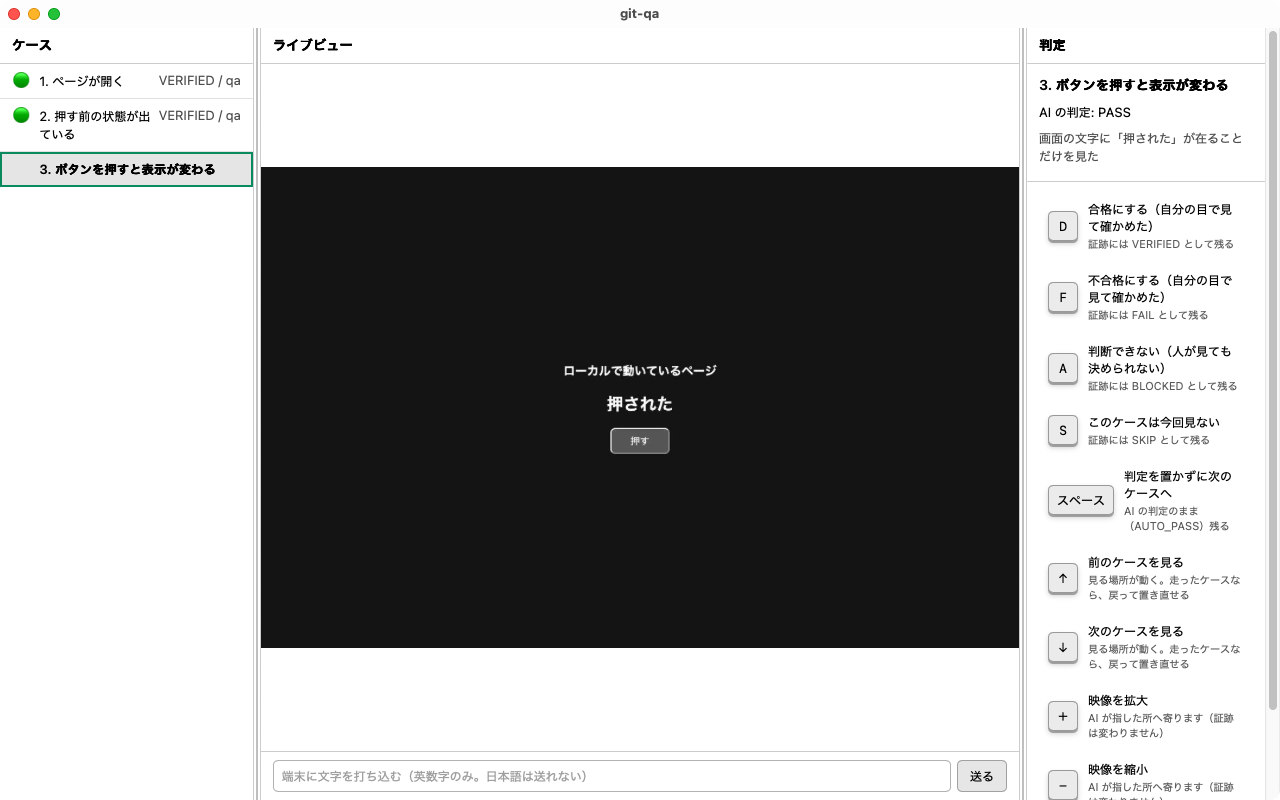
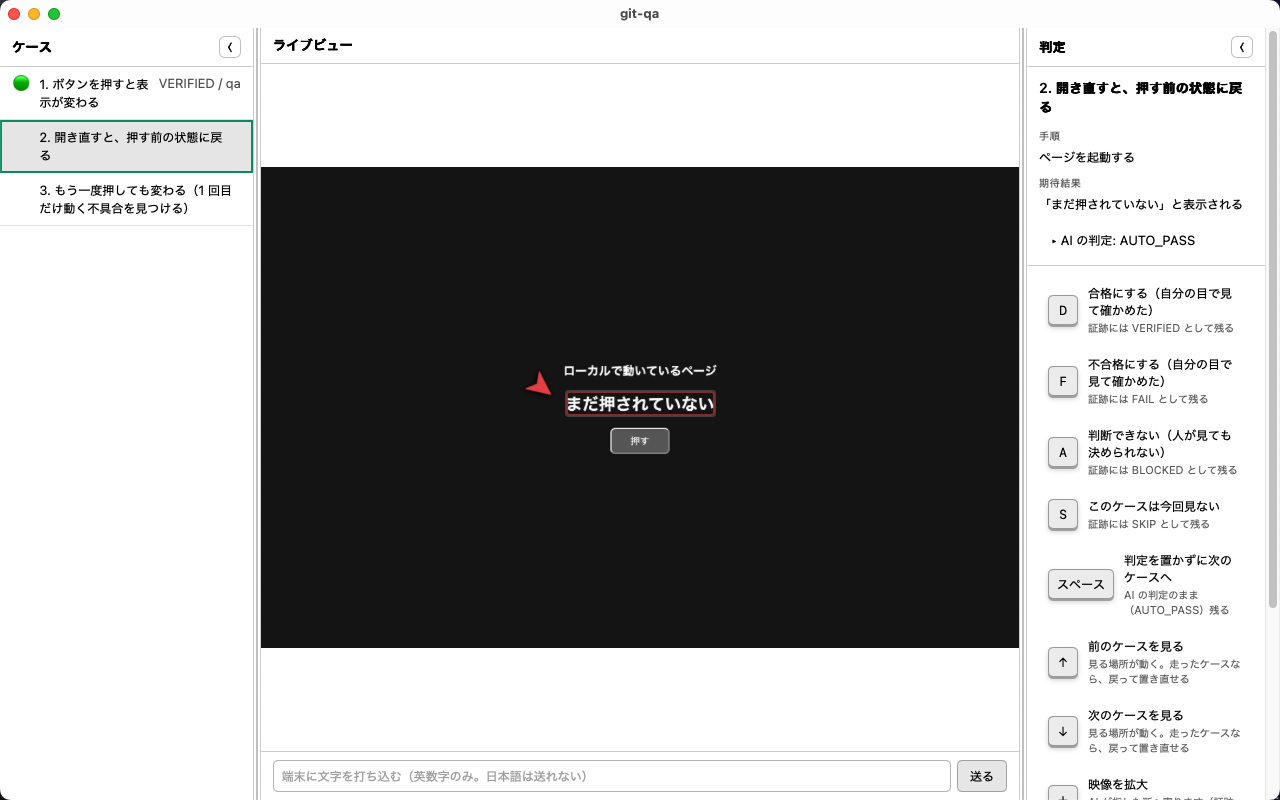
docs: 名乗りを「human-in-the-loop QA runner／人が判定する QA ランナー」にそろえ、検査で持つ（C100）
- README の冒頭（英日）に、製品の種類と、何ができるかの一文を足した
- 配布ページの title / description / og を同じ言い方にし、JSON-LD（SoftwareApplication）を足した
- site/llms.txt を足した（AI 向けの短い説明）
- root の package.json の説明を英語で同じ言い方に。adapter-ios の説明の「押す口はまだ無い」を直した
- 配布ページの「いま何ができるか」に iPhone / iPad の行を足し、画面の絵を今の画面（AUTO_PASS と出る版）に替えた
- 決めた語が入っていることを packages/host/test/discoverability.test.ts で見る

Claude-Session: https://claude.ai/code/session_01Pv9mWR8krPiQ2VFaV8azSp

diff --git a/site/index.html b/site/index.html
@@ -3,16 +3,16 @@
   <head>
     <meta charset="utf-8" />
     <meta name="viewport" content="width=device-width, initial-scale=1" />
-    <title>git-qa — AI が操作し、人が判定を置く</title>
+    <title>git-qa — 人が判定する QA ランナー（human-in-the-loop QA）</title>
     <meta
       name="description"
-      content="検証シートに沿って AI が端末・ブラウザ・デスクトップアプリを操作し、人は見て 1 打鍵で判定を置く。誰が見て保証したかが証跡に残ります（ベータ版）。"
+      content="人が判定する QA ランナー（human-in-the-loop QA）。検証シートに沿って AI エージェントが Android・iPhone・ウェブ・デスクトップアプリを操作し、人は見て 1 打鍵で判定を置く。誰が見て保証したかが証跡に残ります。MCP 対応・オープンソース（ベータ版）。"
     />
     <link rel="icon" href="./icon.png" />
-    <meta property="og:title" content="git-qa" />
+    <meta property="og:title" content="git-qa — 人が判定する QA ランナー" />
     <meta
       property="og:description"
-      content="AI が操作し、人が判定を置く。誰が見て保証したかが証跡に残る。"
+      content="AI が検証シートを流し、人が見て 1 打鍵で判定を置く。誰が見て保証したかが証跡に残る（human-in-the-loop QA）。"
     />
     <!--
       SNS のカード。**画像と URL は絶対 URL で書く**（2026-09-25）。
@@ -26,6 +26,30 @@
     <meta property="og:image:height" content="630" />
     <meta name="twitter:card" content="summary_large_image" />
     <meta name="twitter:image" content="https://meta-taro.github.io/git-qa/og.png" />
+    <!--
+      検索エンジン向けの名乗り（2026-10-13）。README・llms.txt と同じ語で言う。
+      語は packages/host/test/discoverability.test.ts が持っている。
+    -->
+    <script type="application/ld+json">
+      {
+        "@context": "https://schema.org",
+        "@type": "SoftwareApplication",
+        "name": "git-qa",
+        "url": "https://meta-taro.github.io/git-qa/",
+        "description": "Open-source human-in-the-loop QA runner. An AI agent works through a test sheet on Android, iPhone, web and desktop apps; a person watches the live screen and signs off each case with one key, and the evidence records who verified what. AI agents can drive it over MCP.",
+        "applicationCategory": "DeveloperApplication",
+        "operatingSystem": "macOS, Windows",
+        "license": "https://opensource.org/licenses/MIT",
+        "codeRepository": "https://github.com/meta-taro/git-qa",
+        "offers": {
+          "@type": "Offer",
+          "price": "0",
+          "priceCurrency": "USD"
+        },
+        "inLanguage": ["ja", "en"],
+        "keywords": "human-in-the-loop QA, manual testing, AI testing, test sheet, test evidence, MCP, Claude Code, Android, iPhone, web, desktop, 検証シート, 動作検証"
+      }
+    </script>
     <style>
       /*
        * 色は DESIGN.md から採る（2026-09-03・持ち主が決めた緑）。
@@ -323,6 +347,7 @@
         </div>
         <p class="lead">
           <b>AI が操作し、人が見て、1 打鍵で判定を置く。</b>
+          人が判定する QA ランナー（human-in-the-loop QA）です。
           検証シート（TSV）に沿って端末・ブラウザ・デスクトップアプリを動かします。
         </p>
         <p class="split">
@@ -343,8 +368,8 @@
           alt="git-qa の画面。左にケース一覧、中央に相手の画面の映像、右に AI の判定と判定キーが並んでいる"
         />
         <figcaption>
-          <b>実物の画面です。</b>左が検証シートのケース、中央が相手の画面（いま AI
-          が押した直後）、右が AI の判定と、人が押すキー。
+          <b>実物の画面です。</b>左が検証シートのケース、中央が相手の画面（赤い印は、AI
+          が期待結果の文字を見つけた所）、右が AI の判定と、人が押すキー。
           <b>済んだケースには「VERIFIED / 誰が見たか」が付きます。</b>
         </figcaption>
       </figure>
@@ -555,6 +580,13 @@
             <td>
               <b>macOS と Windows。</b>macOS は前面に出さずに押せ、文字は AX と OCR の 2
               段で読みます。 Windows は UI Automation で読んで押します（録画は無い）
+            </td>
+          </tr>
+          <tr>
+            <th>iPhone / iPad</th>
+            <td>
+              USB で映す・文字を読む・録る。<b>押す・打つ・アプリの起動</b>は、端末に WebDriverAgent
+              を入れたときだけ（署名と導入は人の作業）。Windows からは未確認
             </td>
           </tr>
           <tr>

diff --git a/packages/host/test/discoverability.test.ts b/packages/host/test/discoverability.test.ts
@@ -1,0 +1,79 @@
+import { readFileSync } from 'node:fs';
+import { dirname, join } from 'node:path';
+import { fileURLToPath } from 'node:url';
+
+import { describe, expect, it } from 'vitest';
+
+/**
+ * **名乗りを、どこでも同じ語で言う**（2026-10-13）。
+ *
+ * 製品名を知らない人が AI や検索に聞いたとき、git-qa が何と説明されるかは、
+ * こちらが書いた文で決まる。置き場所ごとに言い方がばらばらだと、どれも採られない。
+ *
+ * **直した語が、次の誰かの編集で消えないように検査で持つ。**
+ * 語を変えるときは、ここと全部の置き場所を同じ commit で直す。
+ */
+
+const root = join(dirname(fileURLToPath(import.meta.url)), '..', '..', '..');
+const read = (path: string): string => readFileSync(join(root, path), 'utf8');
+
+/** 英語の名乗りに必ず入れる語。**盛らない** —— できることだけ。 */
+const EN_TERMS = ['human-in-the-loop QA', 'test sheet', 'MCP', 'Android', 'iPhone', 'desktop'];
+
+/** 日本語の名乗りに必ず入れる語。日本語の頁にも、検索される英語の語を入れる。 */
+const JA_TERMS = ['検証シート', '人が判定', 'human-in-the-loop QA', 'MCP'];
+
+describe('名乗り — 英語', () => {
+  it.each([
+    ['README.md の冒頭', () => read('README.md').slice(0, 2500)],
+    [
+      'site/llms.txt の最初の段落',
+      () => read('site/llms.txt').split('\n\n').slice(0, 2).join('\n'),
+    ],
+    [
+      '配布ページの JSON-LD',
+      () =>
+        /<script type="application\/ld\+json">([\s\S]*?)<\/script>/.exec(
+          read('site/index.html'),
+        )?.[1] ?? '',
+    ],
+  ])('%s に、決めた語が入っている', (_where, text) => {
+    const said = text();
+    for (const term of EN_TERMS) expect(said, term).toContain(term);
+  });
+
+  it('root の package.json の説明は英語で、決めた語を含む', () => {
+    const description = (JSON.parse(read('package.json')) as { description: string }).description;
+    expect(description).toContain('human-in-the-loop QA');
+  });
+});
+
+describe('名乗り — 日本語', () => {
+  it.each([
+    ['README.ja.md の冒頭', () => read('README.ja.md').slice(0, 2500)],
+    [
+      '配布ページの title と description',
+      () => {
+        const html = read('site/index.html');
+        const title = /<title>([^<]*)<\/title>/.exec(html)?.[1] ?? '';
+        const description = /name="description"\s+content="([^"]*)"/.exec(html)?.[1] ?? '';
+        return `${title}\n${description}`;
+      },
+    ],
+  ])('%s に、決めた語が入っている', (_where, text) => {
+    const said = text();
+    for (const term of JA_TERMS) expect(said, term).toContain(term);
+  });
+});
+
+describe('名乗り — 配布ページの JSON-LD', () => {
+  it('JSON として読め、名前と置き場所を持つ', () => {
+    const raw = /<script type="application\/ld\+json">([\s\S]*?)<\/script>/.exec(
+      read('site/index.html'),
+    )?.[1];
+    expect(raw).toBeDefined();
+    const said = JSON.parse(raw ?? '{}') as Record<string, unknown>;
+    expect(said['name']).toBe('git-qa');
+    expect(said['url']).toBe('https://meta-taro.github.io/git-qa/');
+  });
+});

diff --git a/docs/decisions.md b/docs/decisions.md
@@ -3327,3 +3327,30 @@ macOS は使用目的が書かれていないと**許可を聞く画面すら出
   MJPEG は実機の 10 秒分（95 枚）を読み切れることを確かめた。**Windows から WDA を起こす手順と、窓での映像の表示は、まだ確かめていない**
 - あわせて直したもの：iPhone の映像を窓へ送るとき、1 枚ずつの区切り（長さの前置き）を付けていなかった（窓に映らなかった）
 - まだ無いもの：長押し
+
+### C100: 名乗りを 1 つの言い方にそろえ、検査で持つ（2026-10-13）
+
+**決めたこと**
+
+1. git-qa を一言で言うときは、英語は **human-in-the-loop QA runner**、日本語は **人が判定する QA ランナー**（括弧で human-in-the-loop QA を添える）
+2. 続く一文は「AI エージェントが検証シートに沿って Android・iPhone・ウェブ・デスクトップアプリを操作し、人がライブ映像を見て判定を置く。誰が何を確かめたかが証跡に残る。MCP で動かせる」
+3. 置き場所は README の冒頭（英日）・配布ページの title / description / og / JSON-LD・`site/llms.txt`・root の `package.json`。GitHub の About も同じ文にする（変えるのは管理者）
+4. 決めた語が入っていることを `packages/host/test/discoverability.test.ts` で見る
+
+**根拠**
+
+- 製品名を知らない人が AI や検索に聞いたとき、git-qa が何と説明されるかは、こちらが書いた文で決まる。置き場所ごとに言い方がばらばらだと、どれも採られない
+- 配布ページの title は「AI が操作し、人が判定を置く」で、製品の種類（QA ランナー）を言っていなかった。英語の頁は README だけで、配布ページに英語の語が無かった
+
+**採らなかった案とその理由**
+
+- **「AI testing tool」を前に出す** —— AI が合否を出す道具に見える。git-qa は AI に合格を出させない（C1）
+- **検査を置かず、気をつける** —— 直した語は、次の誰かの編集で消える（C78 と同じ）
+
+**これを止めるべき条件**
+
+- 言い方を変えたい理由が出たら、検査と全部の置き場所を同じ commit で直す。片方だけ変えない
+
+**実行状況**
+
+- 上の置き場所を直し、検査を足した。配布ページの「いま何ができるか」に iPhone / iPad の行が無かったので足した

diff --git a/README.ja.md b/README.ja.md
@@ -4,6 +4,10 @@
 
 **検証シートは AI が流します。人は見て、1 ケースずつ 1 打鍵で判定を置くだけ。**
 
+git-qa は、**人が判定する QA ランナー**（human-in-the-loop QA・オープンソース）です。
+AI エージェントが検証シートに沿って Android・iPhone・ウェブ・デスクトップアプリを操作し、
+人はライブ映像を見て判定を置きます。誰が何を確かめたかが証跡に残ります。AI エージェントからは MCP で動かせます。
+
 ![検証シートを流している git-qa。左にケース、中央にいま動いている画面と AI が見つけた所の印、右に 1 打鍵の判定](./docs/images/run.png)
 
 *左：検証シートのケース。中央：AI が操作しているページ・端末・アプリの、いまの画面。

diff --git a/README.md b/README.md
@@ -2,6 +2,10 @@
 
 **Your test sheet runs itself. You watch, and sign off each case with one key.**
 
+git-qa is an open-source **human-in-the-loop QA** runner. An AI agent works through your test sheet
+on Android, iPhone, web and desktop apps; you watch the live screen and sign off each case,
+and the evidence records who verified what. AI agents can also drive it over MCP.
+
 [日本語版はこちら / Japanese](./README.ja.md) · [Download](https://meta-taro.github.io/git-qa/)
 
 ![git-qa running a test sheet: cases on the left, the live screen in the middle with the AI pointing at what it found, one-key verdicts on the right](./docs/images/run.png)
